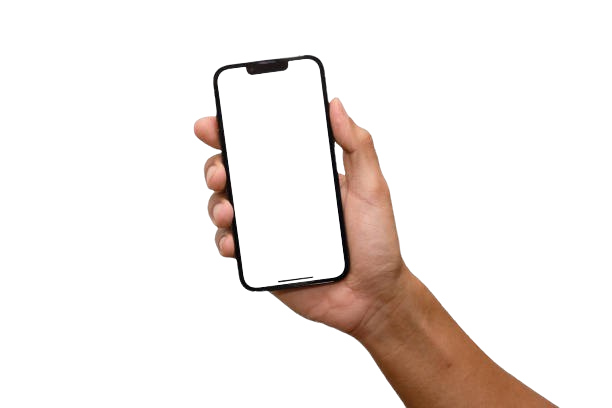
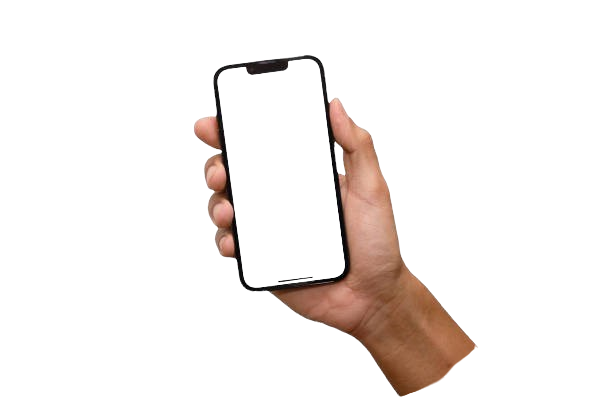
style: removed empty lines and manifest for pwa (not working) updated the ar hand prompt image

diff --git a/index.html b/index.html
@@ -1,6 +1,5 @@
 <!DOCTYPE html>
 <html lang="en">
-
 <head>
   <meta charset="UTF-8">
   <meta name="viewport" content="width=device-width, initial-scale=1.0">
@@ -11,10 +10,7 @@
   <link href="https://fonts.googleapis.com/css2?family=Montserrat:ital,wght@0,100..900;1,100..900&display=swap"
     rel="stylesheet">
   <link rel="stylesheet" href="src/style.css">
-  <link rel="manifest" href="/manifest.json">
-
 </head>
-
 <body>
   <div class="scroll-container">
 
@@ -68,7 +64,6 @@
       </div>
     </div>
 
-
     <div class="section">
       <div class="left">
         <div>
@@ -102,11 +97,10 @@
             <div class="update-bar"></div>
           </div>
           <div id="ar-prompt">
-            <img src="ar_hand_prompt.png">
+            <img src="src/assets/images/ar_hand_prompt-human-hand.png">
           </div>
       </div>
     </div>
-
 
     <div class="section">
       <div class="left">
@@ -125,7 +119,6 @@
         </model-viewer>
       </div>
     </div>
-
 
     <div class="section">
       <div class="left">
@@ -165,7 +158,6 @@
       </div>
     </div>
 
-
     <div class="section">
       <div class="left">
         <div>
@@ -200,13 +192,6 @@
       </div>
     </div>
   </div>
-
   <script src="src/main.js"></script>
-
 </body>
-
 </html>
-
-
-<!-- skybox-image="src/assets/textures/brown_photostudio_01_2k.jpg" 
-skybox-height="1.8m" -->
